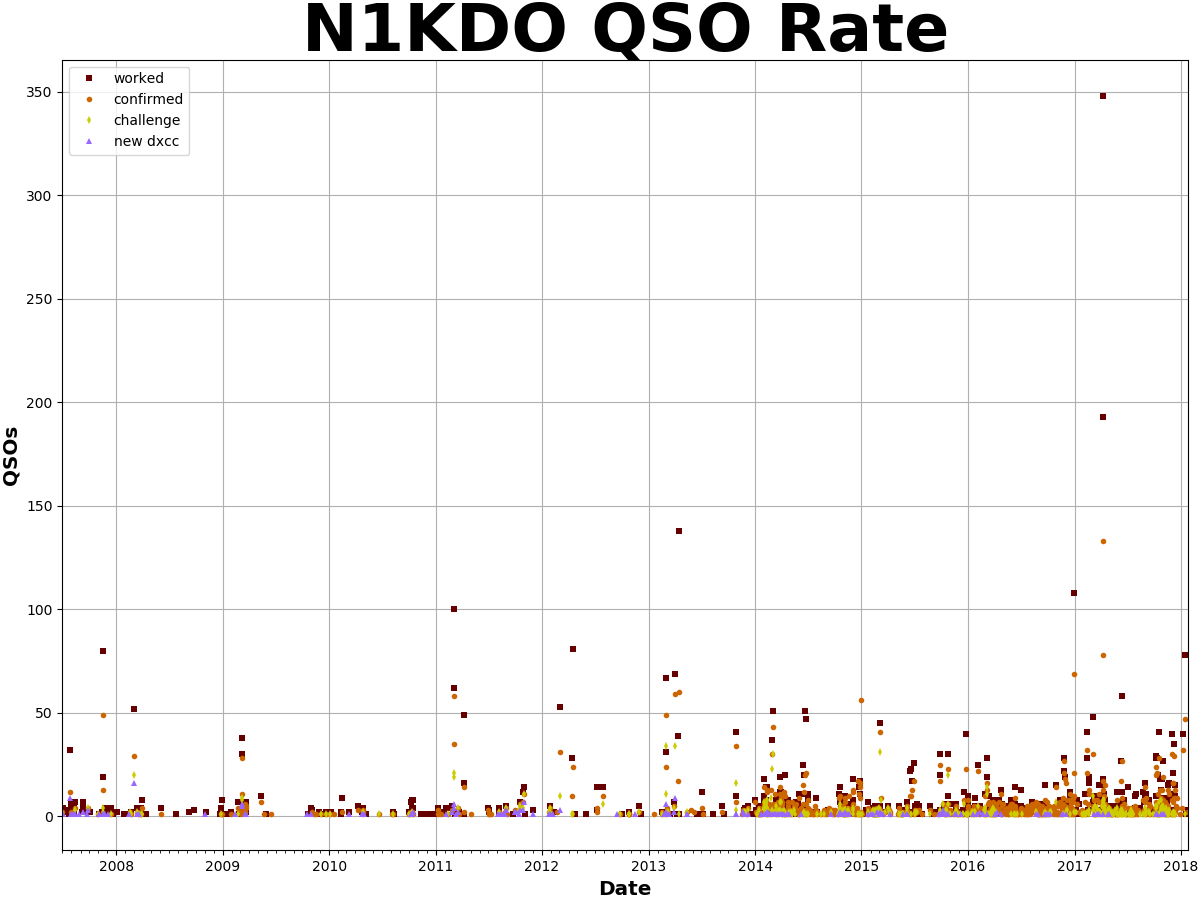
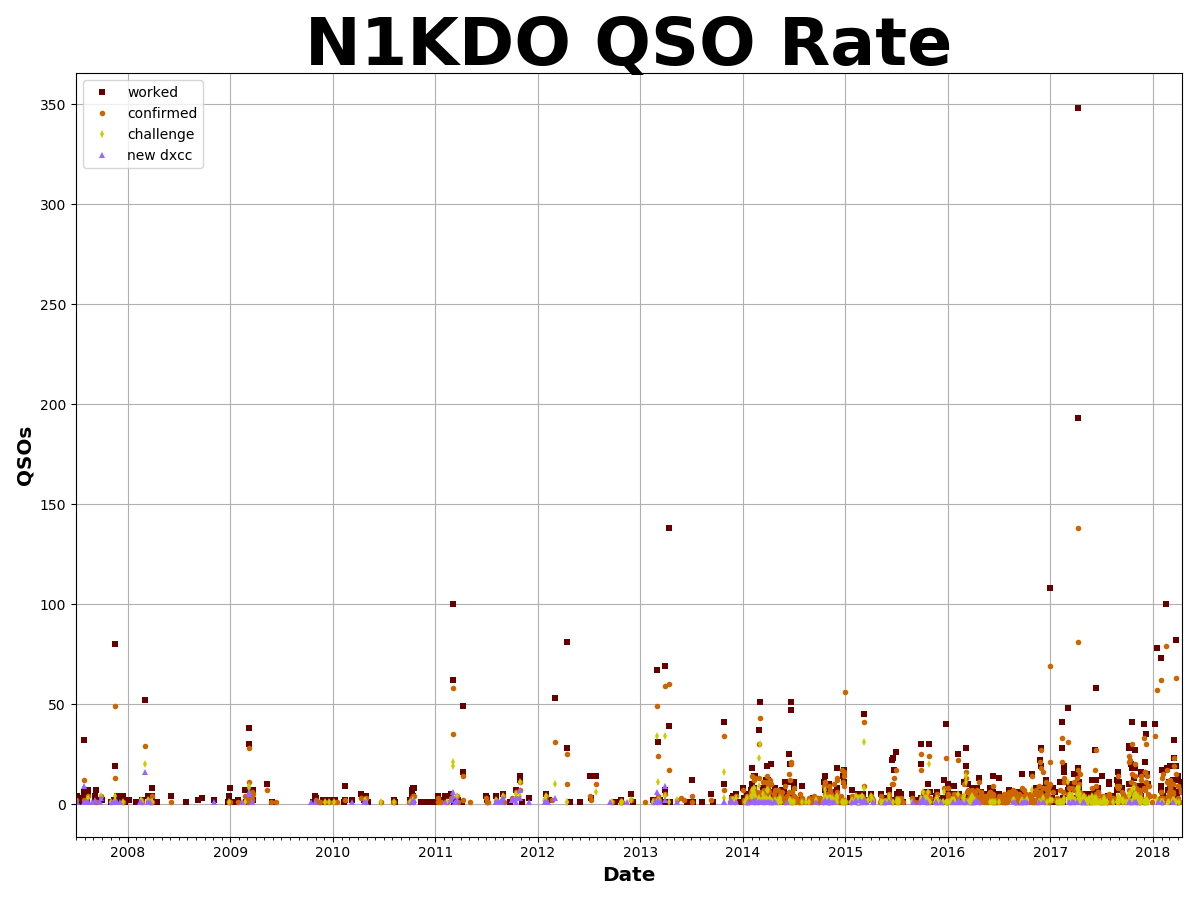
python 3 changes

diff --git a/lotw-qso-analyzer.py b/lotw-qso-analyzer.py
@@ -56,7 +56,7 @@ plt.ioff()
 __author__ = 'Jeffrey B. Otterson, N1KDO'
 __copyright__ = 'Copyright 2017 Jeffrey B. Otterson'
 __license__ = 'Simplified BSD'
-__version__ = '0.01'
+__version__ = '0.02'
 
 logging.basicConfig(format='%(asctime)s.%(msecs)03d %(levelname)-8s %(message)s', datefmt='%Y-%m-%d %H:%M:%S',
                     level=logging.WARN)
@@ -85,7 +85,16 @@ def call_lotw(**params):
     req = urllib.request.Request(url + '?' + data)
     response = urllib.request.urlopen(req)
     for line in response:
-        line = line.decode('utf-8')
+        try:
+            line = line.decode('iso-8859-1')
+        except Exception as inst:
+            print()
+            print('...problem')
+            print(line)
+            e = sys.exc_info()[0]
+            print('Problem downloading from LoTW...' + e)
+            pass
+
         line = line.strip()
         if first_line:
             if 'ARRL Logbook of the World' not in line:
@@ -177,7 +186,8 @@ def convert_qso_date(d):
 
 def input1(prompt):
     print(prompt)
-    s = sys.stdin.readline()
+    s = input()
+    # s = sys.stdin.readline()
     return s
 
 
@@ -226,7 +236,7 @@ def crunch_data(callsign, qso_list):
                 confirmed = 1
                 mode = qso.get('app_lotw_modegroup')
                 country = qso.get('country')
-                if (qso_dxcc not in dxcc_confirmed):
+                if qso_dxcc not in dxcc_confirmed:
                     new_dxcc = 1
                     dxcc_confirmed[qso_dxcc] = {'COUNTRY': country,
                                                 'DXCC': qso_dxcc,
@@ -267,7 +277,8 @@ def crunch_data(callsign, qso_list):
                 counts['challenge'] += challenge
                 counts[qso_band] += challenge
             else:
-                counts = {'qdate': qdate, 'worked': 1, 'confirmed': confirmed, 'new_dxcc': new_dxcc, 'challenge': challenge}
+                counts = {'qdate': qdate, 'worked': 1, 'confirmed': confirmed,
+                          'new_dxcc': new_dxcc, 'challenge': challenge}
                 for band in BANDS:
                     counts[band] = 0
                 counts[qso_band] += challenge
@@ -329,6 +340,8 @@ def crunch_data(callsign, qso_list):
 
     # top 20 most productive days
     number_of_top_days = 20
+    if len(date_records) < number_of_top_days:
+        number_of_top_days = len(date_records)
     print()
     print('Top %d days' % number_of_top_days)
     print()
@@ -388,8 +401,8 @@ def plot_cumulative_qsos(date_records, title, filename):
         data[4].append(worked - confirmed)
 
     logging.debug('make_plot(...,...,%s)', title)
-
-    fig = plt.Figure(figsize=(WIDTH_INCHES, HEIGHT_INCHES), dpi=100, tight_layout={'pad': 0.10}, facecolor='blue')
+    # {'pad': 0.10}
+    fig = plt.Figure(figsize=(WIDTH_INCHES, HEIGHT_INCHES), dpi=100, tight_layout=True, facecolor='blue')
 
     if matplotlib.__version__[0] == '1':
         ax = fig.add_subplot(111, axis_bgcolor='white')
@@ -436,15 +449,15 @@ def plot_dxcc_qsos(date_records, title, filename):
     total_dxcc_data = []
     total_challenge_data = []
 
-    for qdate in sorted(date_records.keys()):
-        counts = date_records[qdate]
-        dates_data.append(qdate)
+    for qso_date in sorted(date_records.keys()):
+        counts = date_records[qso_date]
+        dates_data.append(qso_date)
         total_dxcc_data.append(counts['total_new_dxcc'])
         total_challenge_data.append(counts['total_challenge'])
 
     logging.debug('make_plot(...,...,%s)', title)
-
-    fig = plt.Figure(figsize=(WIDTH_INCHES, HEIGHT_INCHES), dpi=100, tight_layout={'pad': 0.10}, facecolor='blue')
+    # {'pad': 0.10}
+    fig = plt.Figure(figsize=(WIDTH_INCHES, HEIGHT_INCHES), dpi=100, tight_layout=True, facecolor='blue')
 
     if matplotlib.__version__[0] == '1':
         ax = fig.add_subplot(111, axis_bgcolor='white')
@@ -462,16 +475,16 @@ def plot_dxcc_qsos(date_records, title, filename):
     axb.set_ylim(0, 3500)
 
     lns1 = ax.plot_date(dates, total_dxcc_data, color='r',
-                 linestyle='-',
-                 marker='None',
-                 mew=0, markersize=5, label='DXCC')
+                        linestyle='-',
+                        marker='None',
+                        mew=0, markersize=5, label='DXCC')
     lns2 = axb.plot_date(dates, total_challenge_data, color='g',
-                 linestyle=':',
-                 marker='None',
-                 mew=0, markersize=5, label='Challenge')
+                         linestyle=':',
+                         marker='None',
+                         mew=0, markersize=5, label='Challenge')
     ax.grid(True)
 
-    ax.set_yticks([0,50,100,150,200,250,300,350])
+    ax.set_yticks([0, 50, 100, 150, 200, 250, 300, 350])
     ax.set_yticks([339], minor=True)
     ax.yaxis.set_minor_formatter(FormatStrFormatter('%d'))
 
@@ -537,7 +550,8 @@ def plot_qsos_rate(date_records, title, filename):
         data[4].append(no_zero(worked) if worked != confirmed and worked != challenge and worked != new_dxcc else None)
 
     logging.debug('make_plot(...,...,%s)', title)
-    fig = plt.Figure(figsize=(WIDTH_INCHES, HEIGHT_INCHES), dpi=100, tight_layout={'pad': 0.10}, facecolor='blue')
+    #{'pad': 0.10}
+    fig = plt.Figure(figsize=(WIDTH_INCHES, HEIGHT_INCHES), dpi=100, tight_layout=True, facecolor='blue')
 
     if matplotlib.__version__[0] == '1':
         ax = fig.add_subplot(111, axis_bgcolor='white')
@@ -582,7 +596,7 @@ def plot_qsos_band_rate(date_records, title, filename):
     """
     make the chart
     """
-    CHALLENGE_BANDS = ['160M', '80M', '40M', '30M', '20M',     '17M',     '15M',     '12M',     '10M',      '6M']
+    challenge_bands = ['160M', '80M', '40M', '30M', '20M',     '17M',     '15M',     '12M',     '10M',      '6M']
     colors =          [   'r',   'g',   'b',   'c',   'r', '#ffff00', '#ff6600', '#00ff00', '#663300', '#00ff99']
     markers =         [   '*',   '^',   'd',   '*',   'o',       'h',       's',       'p',       's',       'd']
 
@@ -591,11 +605,12 @@ def plot_qsos_band_rate(date_records, title, filename):
     for qdate in sorted(date_records.keys()):
         counts = date_records[qdate]
         data[0].append(qdate)
-        for i in range(0, len(CHALLENGE_BANDS)):
-            data[i+1].append(no_zero(counts[CHALLENGE_BANDS[i]]))
+        for i in range(0, len(challenge_bands)):
+            data[i+1].append(no_zero(counts[challenge_bands[i]]))
 
     logging.debug('make_plot(...,...,%s)', title)
-    fig = plt.Figure(figsize=(WIDTH_INCHES, HEIGHT_INCHES), dpi=100, tight_layout={'pad': 0.10}, facecolor='blue')
+    # {'pad': 0.10}
+    fig = plt.Figure(figsize=(WIDTH_INCHES, HEIGHT_INCHES), dpi=100, tight_layout=True, facecolor='blue')
 
     if matplotlib.__version__[0] == '1':
         ax = fig.add_subplot(111, axis_bgcolor='white')
@@ -611,8 +626,8 @@ def plot_qsos_band_rate(date_records, title, filename):
     ax.set_xlim(start_date, end_date)
     #ax.set_ylim(0, 100)
 
-    for i in range(0, len(CHALLENGE_BANDS)):
-        ax.plot_date(dates, data[i+1], markerfacecolor=colors[i], marker=markers[i], mew=0, markersize=5, label=CHALLENGE_BANDS[i])
+    for i in range(0, len(challenge_bands)):
+        ax.plot_date(dates, data[i+1], markerfacecolor=colors[i], marker=markers[i], mew=0, markersize=5, label=challenge_bands[i])
     ax.grid(True)
 
     ax.tick_params(axis='y', colors='k', which='both', direction='out')
@@ -637,9 +652,9 @@ def plot_qsos_band_counts(date_records, title, filename):
     make the chart
     """
 
-    CHALLENGE_BANDS = ['160M', '80M', '40M', '30M', '20M',     '17M',     '15M',     '12M',     '10M',      '6M']
+    challenge_bands = ['160M', '80M', '40M', '30M', '20M',     '17M',     '15M',     '12M',     '10M',      '6M']
     colors =          [   'r',   'g',   'b',   'c',   'r', '#990099', '#ff6600', '#00ff00', '#663300', '#00ff99']
-    linestyle =       [   '-',   '-',   '-',   '-',  '--',       '-',       ':',       ':',       ':',      '--']
+    line_styles =     [   '-',   '-',   '-',   '-',  '--',       '-',       ':',       ':',       ':',      '--']
 
     data       = [[],   [],     [],    [],    [],     [],    [],    [],    [],    [],    []]
     totals     = [ 0,    0,      0,     0,     0,      0,     0,     0,     0,     0,     0]
@@ -647,12 +662,13 @@ def plot_qsos_band_counts(date_records, title, filename):
     for qdate in sorted(date_records.keys()):
         counts = date_records[qdate]
         data[0].append(qdate)
-        for i in range(0, len(CHALLENGE_BANDS)):
-            totals[i] += counts[CHALLENGE_BANDS[i]]
+        for i in range(0, len(challenge_bands)):
+            totals[i] += counts[challenge_bands[i]]
             data[i+1].append(totals[i])
 
     logging.debug('make_plot(...,...,%s)', title)
-    fig = plt.Figure(figsize=(WIDTH_INCHES, HEIGHT_INCHES), dpi=100, tight_layout={'pad': 0.10}, facecolor=BG)
+    # {'pad': 0.10}
+    fig = plt.Figure(figsize=(WIDTH_INCHES, HEIGHT_INCHES), dpi=100, tight_layout=True, facecolor=BG)
 
     if matplotlib.__version__[0] == '1':
         ax = fig.add_subplot(111, axis_bgcolor=BG)
@@ -668,11 +684,11 @@ def plot_qsos_band_counts(date_records, title, filename):
     ax.set_xlim(start_date, end_date)
     ax.set_ylim(0, 200)
 
-    for i in range(0, len(CHALLENGE_BANDS)):
+    for i in range(0, len(challenge_bands)):
         ax.plot_date(dates, data[i+1], color=colors[i],
-                     linestyle=linestyle[i],
+                     linestyle=line_styles[i],
                      marker='None',
-                     mew=0, markersize=5, label=CHALLENGE_BANDS[i])
+                     mew=0, markersize=5, label=challenge_bands[i])
     ax.grid(True)
 
     ax.tick_params(axis='y', colors=FG, which='both', direction='out', right='off')
@@ -708,11 +724,36 @@ def plot_qsos_band_counts(date_records, title, filename):
     return
 
 
+def combine_qsos(qso_list, qsl_cards):
+    # this is brute-force right now.  maybe it could be made faster.
+    for card in qsl_cards:
+        found = False
+        for qso in qso_list:
+            if qso['call'] == card['call'] and qso['qso_date'] == card['qso_date'] and qso['band'] == card['band']:
+                found = True
+                if qso.get('dxcc') == None:
+                    print('...upgraded QSO to QSL: %s %s %s %s' %
+                          (card['call'], card['band'], card['qso_date'], card['country']))
+                    qso['dxcc'] = card['dxcc']
+                    qso['country'] = card['country']
+                    qso['credit_granted'] = card['credit_granted']
+                    qso['app_lotw_deleted_entity'] = card['app_lotw_deleted_entity']
+                    qso['app_lotw_credit_granted'] = card['app_lotw_credit_granted']
+                    qso['qsl_rcvd'] = 'y'
+        if not found:
+            print('Card not found in QSOs: %s %s %s %s' %
+                  (card['call'], card['band'], card['qso_date'], card['country']))
+            qso_list.append(card)
+    return qso_list
+
+
 def main():
     print('N1KDO\'s LoTW ADIF analyzer version %s' % __version__)
     print()
     qso_list = None
-    # qso_list = read_adif_file('n1kdo.adif')
+    qsl_cards = None
+    #  qso_list = read_adif_file('n1kdo.adif')
+    #  qsl_cards = read_adif_file('n1kdo-cards.adif')
     while qso_list is None:
         print('If you already have a downloaded ADIF data file from LoTW, that can be used,')
         print('otherwise, this program will get the data from LoTW for you, and can optionally')
@@ -722,35 +763,49 @@ def main():
         if have_adif:
             adif_file_name = ''
             try:
-                adif_file_name = input1('Enter the name of the ADIF file to use : ')
-                if adif_file_name == '':
+                mycall = input1('Please enter your LoTW callsign   : ')
+                if mycall == '':
                     continue
-                qso_list = read_adif_file(adif_file_name)
+                lotw_filename = mycall + '.adif'
+                cards_filename = mycall + '-cards.adif'
+                qso_list = read_adif_file(lotw_filename)
+                qsl_cards = read_adif_file(cards_filename)
             except:
                 print('Problem reading ADIF file %s' % adif_file_name)
                 print()
             else:
                 break
         else:
-            mycall = input1('Please enter your LoTW callsign   : ')
+            mycall = input1('Please enter your LoTW callsign : ')
             password = input1('Please enter your LoTW password : ')
-            filename = input1('If you want to save this data for future analysis, enter the filename now : ')
-            if filename == '':
-                filename = None
+            lotw_filename = mycall + '.adif'
+            cards_filename = mycall + '-cards.adif'
             try:
-                print('please wait while your data is fetched from Logbook of The World.  This could take several minutes.')
-                qso_list = get_lotw_adif(mycall, password, filename)
-                print('please wait while your data is crunched.')
-            except:
+                print('Please wait while your data is fetched from Logbook of The World.')
+                print('This could take several minutes.')
+                qso_list = get_lotw_adif(mycall, password, lotw_filename)
+                print('Fetching DXCC confirmations...')
+                qsl_cards = get_qsl_cards(mycall, password, cards_filename)
+                print('Please wait while your data is crunched.')
+            except Exception as ex:
                 e = sys.exc_info()[0]
                 print('Problem downloading from LoTW...' + e)
                 print()
             else:
                 break
 
+    print("Read %d QSOs from LoTW" % len(qso_list))
+    print("Read %d DXCC QSL confirmations" % len(qsl_cards))
+    print()
+
+    print('Combining lists')
+
+    qso_list = combine_qsos(qso_list, qsl_cards)
+
     print('Crunching data...')
     crunch_data('N1KDO', qso_list)
     print('done.')
+
 
 if __name__ == '__main__':
     main()
